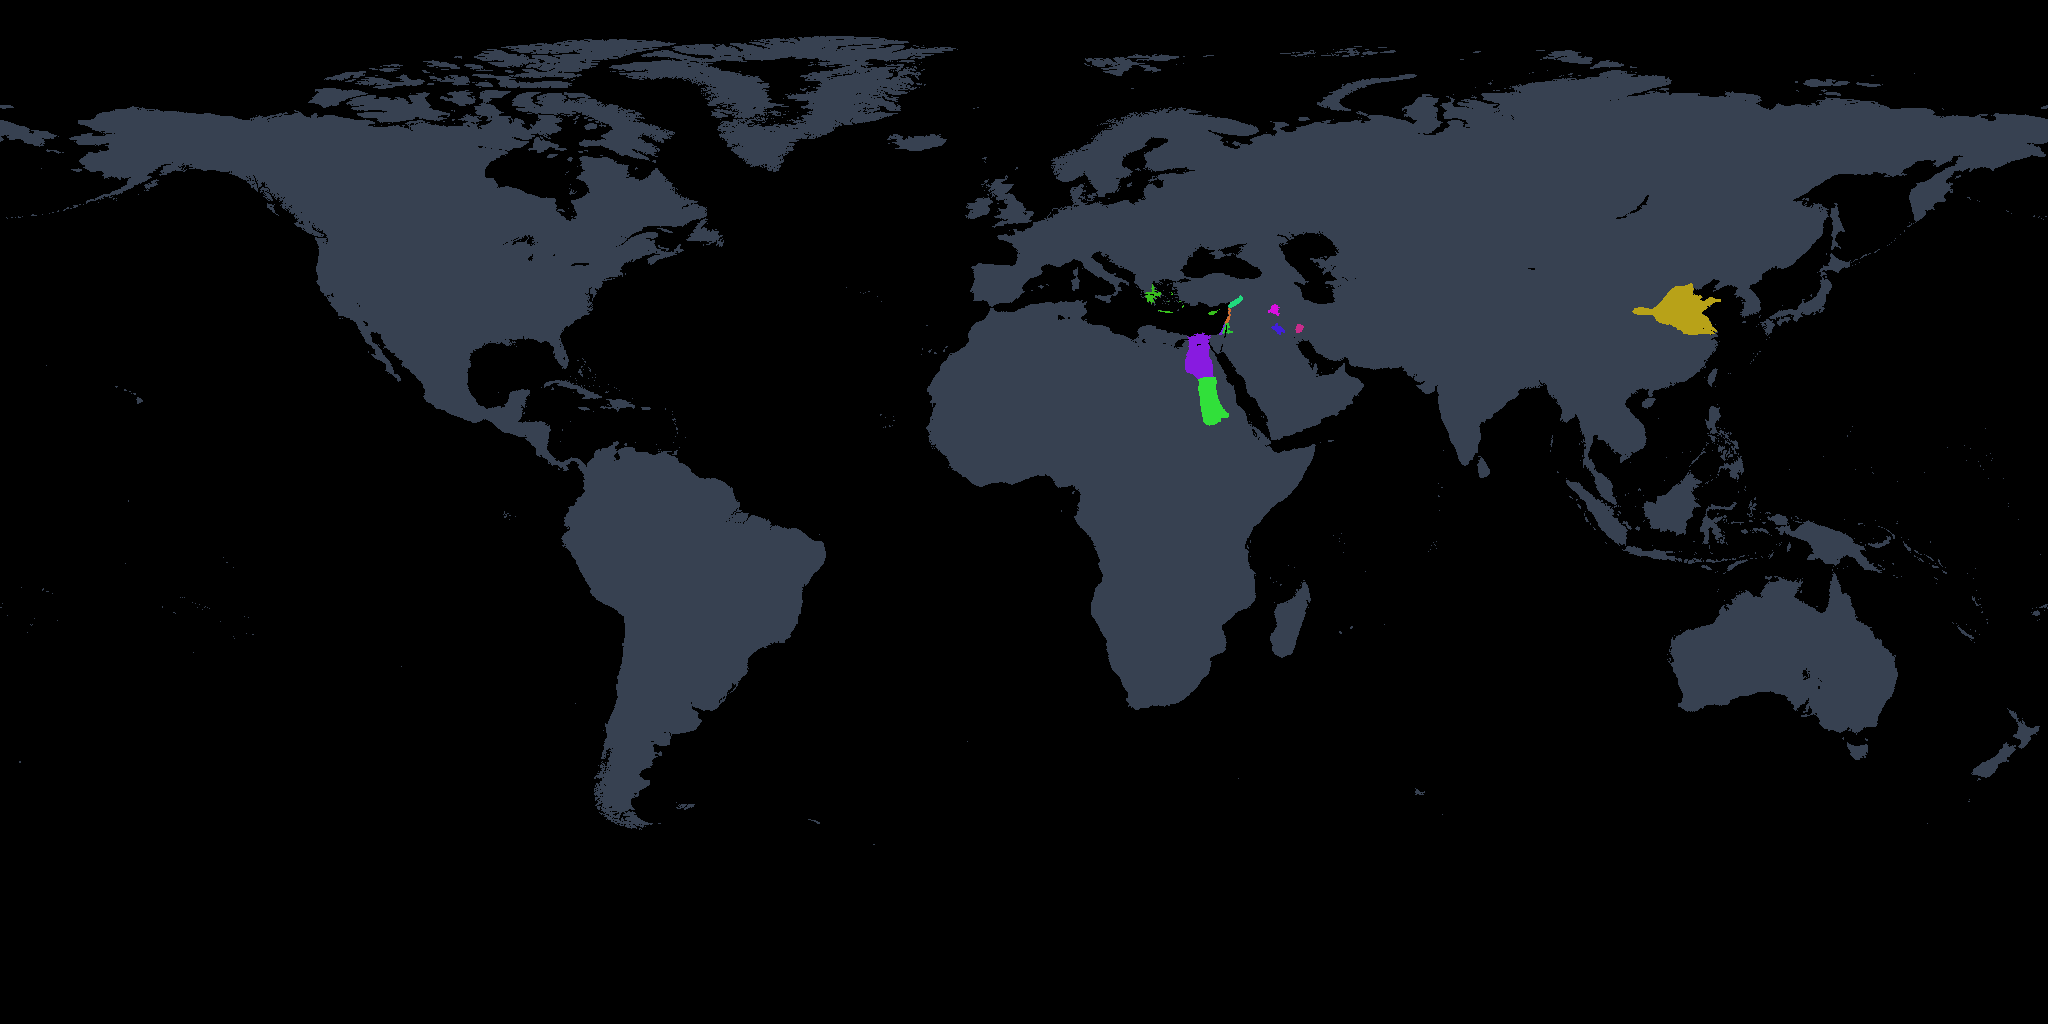
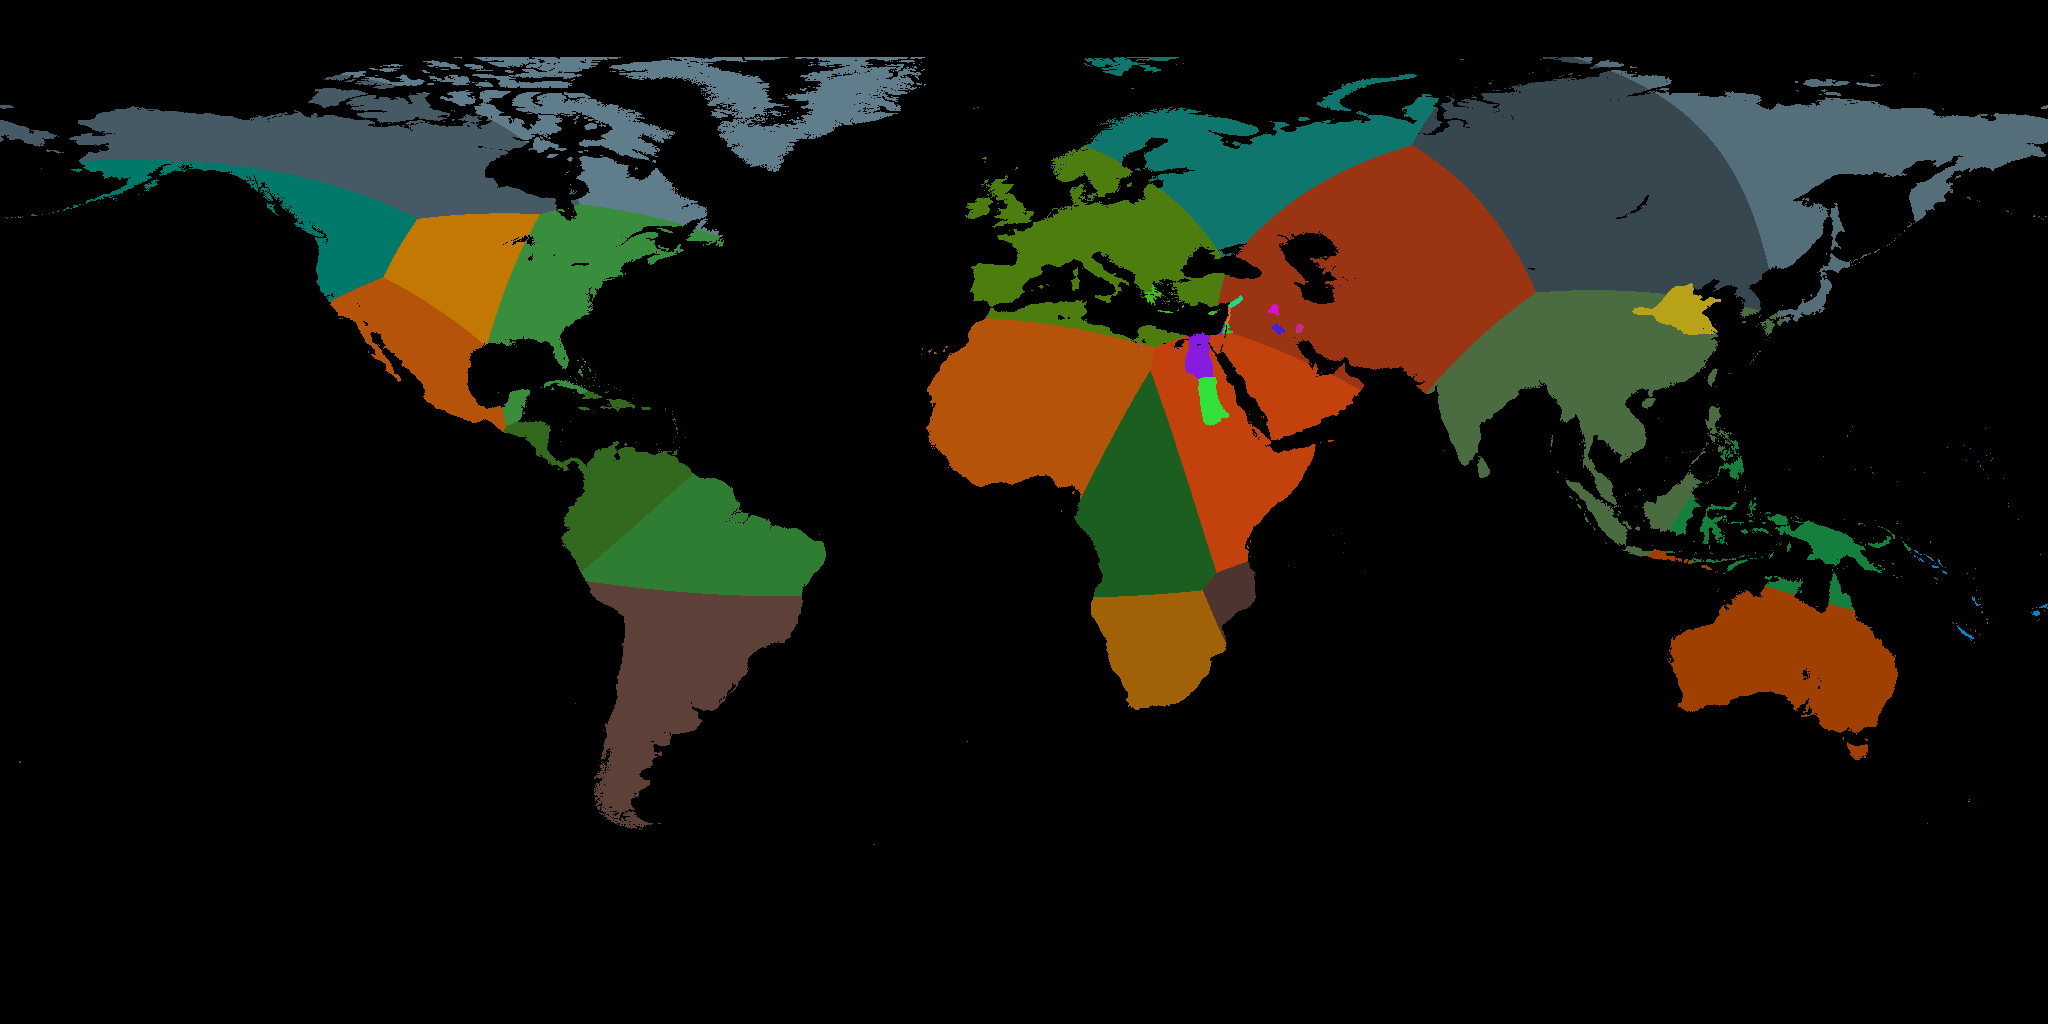
Calibrate institutional complexity scale [0-255] reserving future headroom and refresh raster suites

diff --git a/src/main/java/org/ether/society/data/HistoricalMapGenerator.java b/src/main/java/org/ether/society/data/HistoricalMapGenerator.java
@@ -3211,11 +3211,32 @@ public class HistoricalMapGenerator {
                     continue;
                 }
 
-                // Holocene & Historical Eras: Seshat hierarchy scaling
-                double maxInst = 25.0;
+                // Holocene & Historical Eras: Seshat hierarchy scaling with distance decay from imperial cores
+                // Calibrated scale:
+                // - Neolithic (-10k to -3500 BP): chiefdoms ~ 50-65
+                // - Bronze/Archaic Empires (-3500 to -500 BP): kingdoms ~ 90-120
+                // - Classical Axial Empires (-500 to 500 AD): Rome/Han ~ 150-165
+                // - Medieval / Early Modern (500 to 1800 AD): Song/Abbasid/Ottoman/W.Europe ~ 165-185
+                // - Industrial Era (1800 to 1900 AD): ~ 185-195
+                double eraMaxCap;
+                if (year <= -3500L) {
+                    eraMaxCap = 55.0;
+                } else if (year <= -500L) {
+                    eraMaxCap = 110.0;
+                } else if (year <= 600L) {
+                    eraMaxCap = 160.0;
+                } else if (year <= 1750L) {
+                    eraMaxCap = 175.0;
+                } else {
+                    eraMaxCap = 195.0;
+                }
+
+                double baselineInst = 20.0;
+                double maxInst = baselineInst;
                 for (CityPoint cp : cities) {
                     double d2 = distSq(lon, lat, cp.lng, cp.lat);
-                    double val = cp.weight * Math.exp(-d2 / (2.0 * cp.sigma * cp.sigma)) * 55.0;
+                    double cityPeak = Math.min(eraMaxCap, (cp.weight / 4.2) * eraMaxCap);
+                    double val = baselineInst + (cityPeak - baselineInst) * Math.exp(-d2 / (2.0 * cp.sigma * cp.sigma * 4.0));
                     maxInst = Math.max(maxInst, val);
                 }
 

diff --git a/src/main/java/org/ether/society/data/NaturalEarthVectorIngestor.java b/src/main/java/org/ether/society/data/NaturalEarthVectorIngestor.java
@@ -909,10 +909,10 @@ public class NaturalEarthVectorIngestor {
     private static int computeInstitutionalLevel(String iso, String name) {
         String code = iso != null ? iso.toUpperCase(Locale.ROOT) : "";
         return switch (code) {
-            case "USA", "CAN", "GBR", "FRA", "DEU", "JPN", "CHE", "SWE", "NOR", "DNK", "FIN", "NLD", "AUS", "NZL", "SGP" -> 245;
-            case "ITA", "ESP", "PRT", "AUT", "BEL", "IRL", "KOR", "TWN", "ISR", "POL", "CZE", "EST" -> 225;
-            case "CHN", "RUS", "IND", "BRA", "MEX", "TUR", "SAU", "ZAF", "MYS", "CHL", "ARG", "ROU", "GRC", "IDN", "THA", "VNM" -> 180;
-            case "EGY", "NGA", "PAK", "BGD", "COL", "PER", "PHL", "UKR", "KAZ", "DZA", "MAR", "KEN" -> 140;
+            case "USA", "CAN", "GBR", "FRA", "DEU", "JPN", "CHE", "SWE", "NOR", "DNK", "FIN", "NLD", "AUS", "NZL", "SGP" -> 220;
+            case "ITA", "ESP", "PRT", "AUT", "BEL", "IRL", "KOR", "TWN", "ISR", "POL", "CZE", "EST" -> 205;
+            case "CHN", "RUS", "IND", "BRA", "MEX", "TUR", "SAU", "ZAF", "MYS", "CHL", "ARG", "ROU", "GRC", "IDN", "THA", "VNM" -> 175;
+            case "EGY", "NGA", "PAK", "BGD", "COL", "PER", "PHL", "UKR", "KAZ", "DZA", "MAR", "KEN" -> 135;
             default -> 95;
         };
     }
